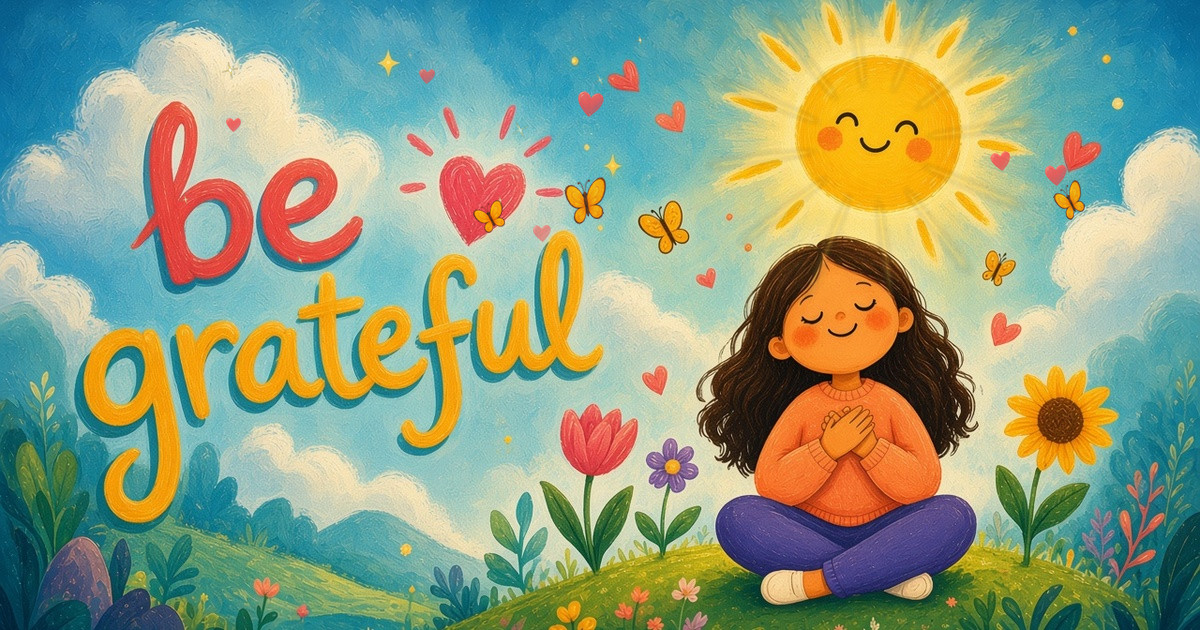
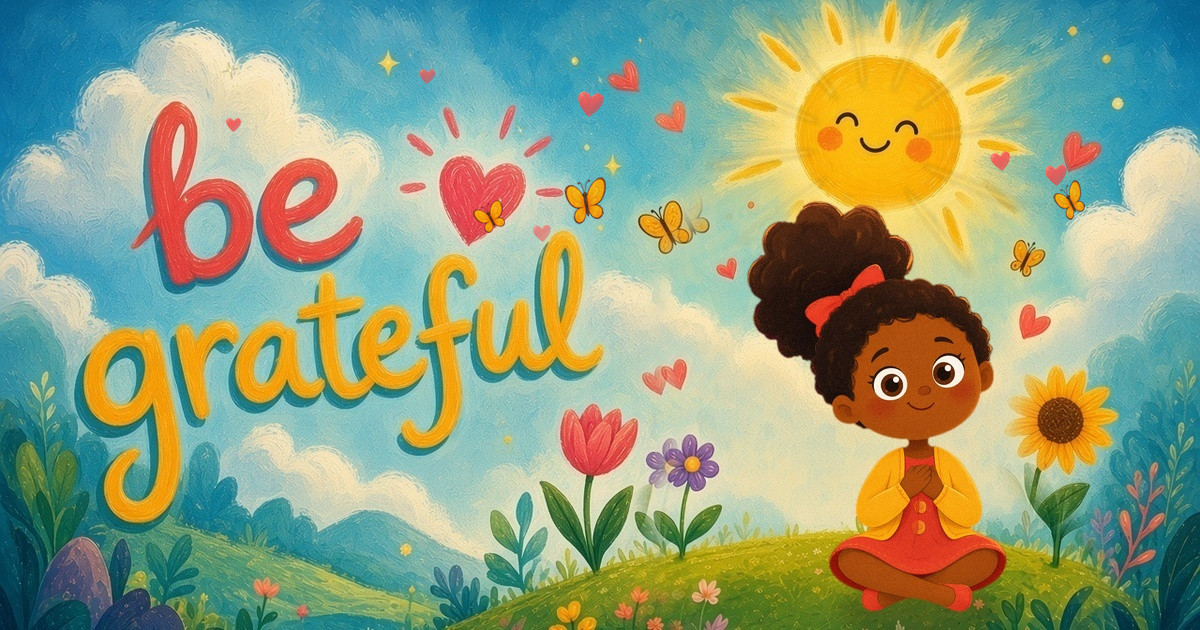
Redraw the more-valued-than-our-jobs girl in a game-illustration style

Changed region(s): [[0.5242, 0.2714, 0.9558, 1.0], [0.37, 0.5127, 0.4008, 0.5429], [0.2467, 0.6032, 0.2775, 0.6333]]

diff --git a/lib/blog-posts.ts b/lib/blog-posts.ts
@@ -13,7 +13,7 @@ export type BlogPostSummary = {
 };
 
 export const BLOG_POSTS: BlogPostSummary[] = [
-  { slug: "more-valued-than-our-jobs", type: "Article", time: "2 min", publishedAt: "2026-11-27", date: "November 27, 2026", published: true, cover: { src: "/blog/more-valued-than-our-jobs.gif", alt: "An illustrated scene of a girl with long dark hair sitting on a green hill, eyes closed and hands on her heart, under a smiling sun, with flowers, floating hearts and butterflies, and hand-lettered “be grateful.” In the animation the sun’s rays pulse, hearts and butterflies drift, and sparkles twinkle." }, title: "This Year Taught Me We Are More Valued Than Our Jobs", description: "Thanksgiving was a reminder that we are more valued than our jobs. On learning, the people who support us, and giving ourselves room to change." },
+  { slug: "more-valued-than-our-jobs", type: "Article", time: "2 min", publishedAt: "2026-11-27", date: "November 27, 2026", published: true, cover: { src: "/blog/more-valued-than-our-jobs.gif", alt: "An illustrated scene of a girl with warm brown skin and a high puff of dark hair, sitting on a green hill in a coral-red dress and yellow cardigan, hands on her heart, under a smiling sun, with flowers, floating hearts and butterflies, and hand-lettered “be grateful.” In the animation the sun’s rays pulse, hearts and butterflies drift, and sparkles twinkle." }, title: "This Year Taught Me We Are More Valued Than Our Jobs", description: "Thanksgiving was a reminder that we are more valued than our jobs. On learning, the people who support us, and giving ourselves room to change." },
   { slug: "tell-clients-how-you-use-ai", type: "Article", time: "3 min", publishedAt: "2026-11-25", date: "November 25, 2026", published: true, cover: { src: "/blog/tell-clients-how-you-use-ai.jpg", alt: "A silver laptop seen from above on a cherry-red table beside a coffee cup and a pen, showing a freelance proposal page titled How I use AI on your project with three checked items and an Accept proposal button." }, title: "Tell Clients How You Use AI Before They Ask", description: "Most creatives now use AI, and many don't tell clients. Why explaining your AI process up front builds trust and helps clients value your judgment." },
   { slug: "missing-label-screen-reader-ai-agent", type: "Article", time: "3 min", publishedAt: "2026-11-24", date: "November 24, 2026", published: true, cover: { src: "/blog/missing-label-screen-reader-ai-agent.jpg", alt: "A hand in a white knit sleeve holding a phone against a soft sky-blue background, showing a Lab report card where a focus ring outlines the dark Save report button, with a screen-reader label reading Button, Save report and a Delete report button below." }, title: "Are We Designing for AI Agents Most of the Time?", description: "AI agents often read the same accessibility tree as screen readers. Why fixing accessibility beats building a separate layer just for machines." },
   { slug: "ai-reads-feedback-designers-decide", type: "Article", time: "3 min", publishedAt: "2026-11-23", date: "November 23, 2026", published: true, cover: { src: "/blog/ai-reads-feedback-designers-decide.jpg", alt: "A desktop monitor on a light oak desk against a warm sand wall, beside a lilac vase and notebook, showing a whiteboard titled Synthesis that maps raw user comments through a Does it matter? decision into themes, findings, a recommendation and an AI-generated design." }, title: "AI Can Read Every Comment. Someone Still Has to Decide What Matters.", description: "AI designs improve when they start from synthesized research, not raw user comments. Why deciding what matters is still the designer's job." },

diff --git a/app/blog/[slug]/page.tsx b/app/blog/[slug]/page.tsx
@@ -30,7 +30,7 @@ const posts: Record<string, Post> = {
   "more-valued-than-our-jobs": {
     hideCover: true,
     date: "November 27, 2026",
-    cover: { src: "/blog/more-valued-than-our-jobs.gif", alt: "An illustrated scene of a girl with long dark hair sitting on a green hill, eyes closed and hands on her heart, under a smiling sun, with flowers, floating hearts and butterflies, and hand-lettered “be grateful.” In the animation the sun’s rays pulse, hearts and butterflies drift, and sparkles twinkle." },
+    cover: { src: "/blog/more-valued-than-our-jobs.gif", alt: "An illustrated scene of a girl with warm brown skin and a high puff of dark hair, sitting on a green hill in a coral-red dress and yellow cardigan, hands on her heart, under a smiling sun, with flowers, floating hearts and butterflies, and hand-lettered “be grateful.” In the animation the sun’s rays pulse, hearts and butterflies drift, and sparkles twinkle." },
     type: "Article",
     time: "2 min",
     title: "This Year Taught Me We Are More Valued Than Our Jobs",
